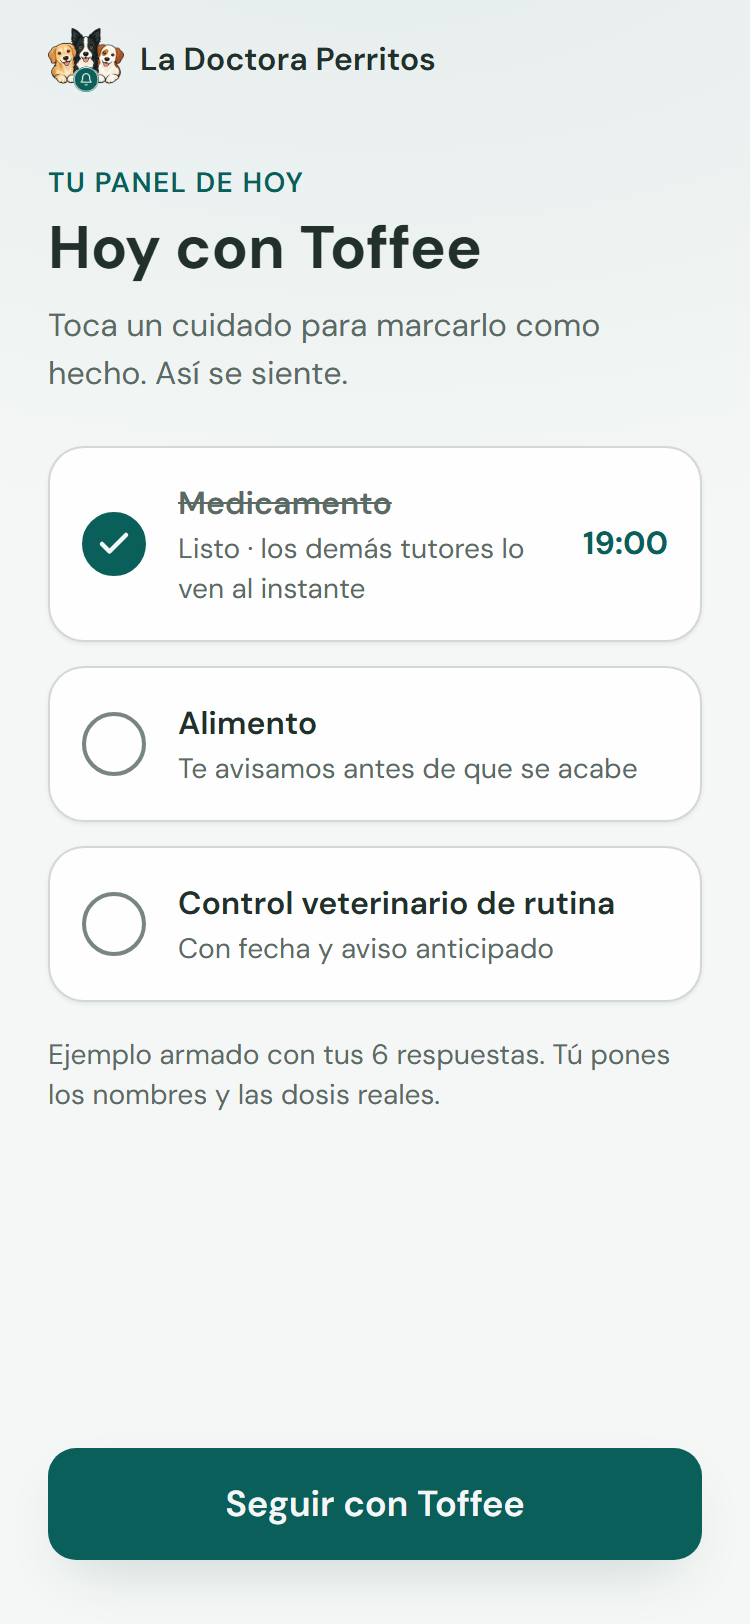
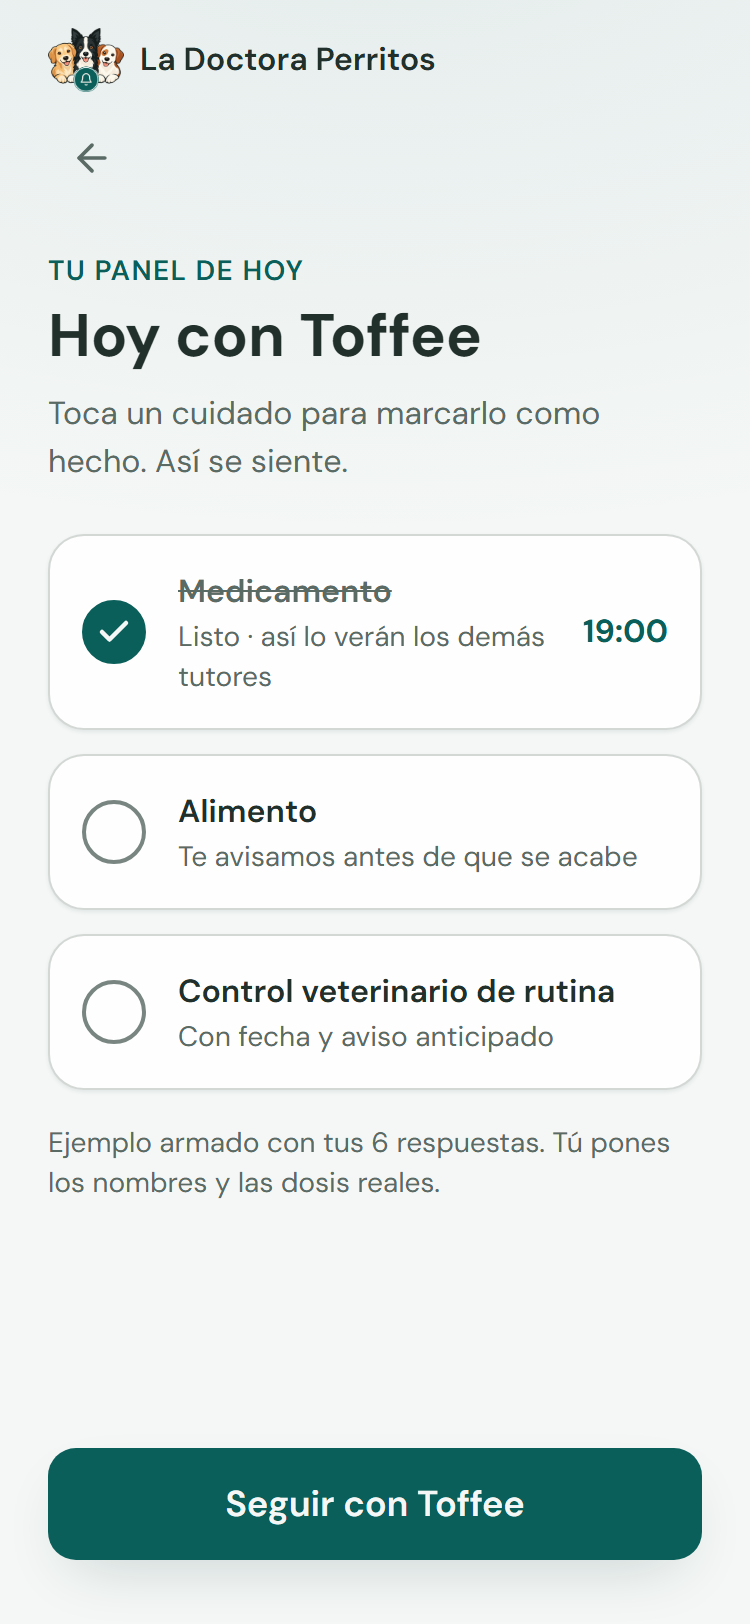
Embudo: correcciones tras revisión ronda 2 (aún bajo umbral)

diff --git a/components/onboarding/Onboarding.tsx b/components/onboarding/Onboarding.tsx
@@ -183,6 +183,7 @@ export default function Onboarding() {
   const raiz = useRef<HTMLDivElement>(null);
   useEffect(() => {
     // Al cambiar de pantalla el foco pasa al título (lectores de pantalla y teclado).
+    if (fase === 'preguntas' && paso === 0) return;
     raiz.current?.querySelector<HTMLElement>('h1')?.focus();
   }, [paso, fase]);
 
@@ -203,7 +204,10 @@ export default function Onboarding() {
     else setFase('reconocimiento');
   };
   const atras = () => {
-    if (fase !== 'preguntas') return setFase('preguntas');
+    if (fase !== 'preguntas') {
+      setPaso(PASOS.length - 1);
+      return setFase('preguntas');
+    }
     if (paso > 0) setPaso(paso - 1);
     else router.push('/');
   };
@@ -219,7 +223,18 @@ export default function Onboarding() {
       <div className="-mt-2 mb-1">
         <Marca />
       </div>
-      {fase === 'preguntas' && <Cabecera paso={paso} onAtras={atras} />}
+      {fase === 'preguntas' ? (
+        <Cabecera paso={paso} onAtras={atras} />
+      ) : (
+        <button
+          type="button"
+          onClick={atras}
+          aria-label="Volver a las preguntas"
+          className="inline-flex size-11 items-center justify-center rounded-full text-[var(--text-secondary)] [touch-action:manipulation]"
+        >
+          <ArrowLeft size={22} aria-hidden="true" />
+        </button>
+      )}
 
       {fase === 'preguntas' && (
         <motion.main key={actual} {...entrada} className="flex flex-1 flex-col pt-8">
@@ -239,7 +254,7 @@ export default function Onboarding() {
                 placeholder="Por ejemplo, Toffee"
                 onChange={(e) => actualizar({ nombre: e.target.value })}
                 onKeyDown={(e) => e.key === 'Enter' && valido.nombre && siguiente()}
-                className="mt-6 h-14 w-full rounded-[var(--radius-card)] border-2 border-[color-mix(in_oklab,var(--text-tertiary)_70%,transparent)] bg-[var(--surface)] px-4 text-xl font-semibold outline-none focus:border-[var(--accent)]"
+                className="mt-6 h-14 w-full rounded-[var(--radius-card)] border-2 border-[color-mix(in_oklab,var(--text-tertiary)_70%,transparent)] bg-[var(--surface)] px-4 text-xl font-semibold outline-none placeholder:text-[var(--text-secondary)] focus:border-[var(--accent)]"
               />
             </>
           )}
@@ -351,6 +366,7 @@ function Reconocimiento({
 }
 
 function Armando({ nombre, r, onListo }: { nombre: string; r: Respuestas; onListo: () => void }) {
+  const reduce = useReducedMotion();
   const hora = r.momento ? HORA_POR_MOMENTO[r.momento] : '08:00';
   const lineas = [
     `Ordenando lo que necesita ${nombre}…`,
@@ -359,14 +375,14 @@ function Armando({ nombre, r, onListo }: { nombre: string; r: Respuestas; onList
   ];
   const [visibles, setVisibles] = useState(1);
   useEffect(() => {
-    const t1 = setTimeout(() => setVisibles(2), 900);
-    const t2 = setTimeout(() => setVisibles(3), 1800);
-    const t3 = setTimeout(onListo, 2700);
+    const t1 = setTimeout(() => setVisibles(2), 1300);
+    const t2 = setTimeout(() => setVisibles(3), 2600);
+    const t3 = setTimeout(onListo, 4000);
     return () => [t1, t2, t3].forEach(clearTimeout);
   }, [onListo]);
   return (
     <main className="flex flex-1 flex-col items-center justify-center gap-8 text-center" aria-live="polite">
-      <span className="inline-flex size-16 animate-pulse items-center justify-center rounded-full bg-[var(--chip-bg)]">
+      <span className={`inline-flex size-16 items-center justify-center rounded-full bg-[var(--chip-bg)] ${reduce ? '' : 'animate-pulse'}`}>
         <PawPrint size={32} color="var(--accent)" aria-hidden="true" />
       </span>
       <h1 tabIndex={-1} className="outline-none text-2xl font-bold">Armando el Panel de Hoy de {nombre}</h1>
@@ -420,7 +436,7 @@ function Resultado({ nombre, r, entrada }: { nombre: string; r: Respuestas; entr
                   <span className={`block text-base font-semibold ${hecho ? 'text-[var(--text-secondary)] line-through' : ''}`}>
                     {it.titulo}
                   </span>
-                  <span className="block text-sm text-[var(--text-secondary)]">{hecho ? (comparte ? 'Listo · los demás tutores lo ven al instante' : 'Listo · queda registrado con la hora') : it.detalle}</span>
+                  <span className="block text-sm text-[var(--text-secondary)]">{hecho ? (comparte ? 'Listo · así lo verán los demás tutores' : 'Listo · así queda registrado con la hora') : it.detalle}</span>
                 </span>
                 {it.hora && <span className="text-base font-bold tabular-nums text-[var(--accent)]">{it.hora}</span>}
               </button>

diff --git a/components/onboarding/Paywall.tsx b/components/onboarding/Paywall.tsx
@@ -137,6 +137,11 @@ export default function Paywall() {
             <span className="text-4xl font-bold tabular-nums">{importe}</span>
             <span className="text-base text-[var(--text-secondary)]">{periodo === 'anio' ? 'al año' : 'al mes'}</span>
           </p>
+          {periodo === 'anio' && (
+            <p className="mt-1 text-base font-semibold">
+              Equivale a {P.anualMes} al mes <span className="font-normal text-[var(--text-secondary)]">(mensual: {P.mensual})</span>
+            </p>
+          )}
           <ul className="mt-4 flex flex-col gap-2">
             {featuresPlan(P.perros).map((f) => (
               <li key={f} className="flex items-start gap-3 text-base">
@@ -185,6 +190,15 @@ export default function Paywall() {
         </div>
         <p className="text-center text-sm text-[var(--text-secondary)]">El pago lo procesa Hotmart. Cancela cuando quieras.</p>
 
+        {!checkout && (
+          <p role="status" className="mt-4 rounded-[var(--radius-button)] bg-[var(--surface-2)] p-3 text-center text-sm text-[var(--text-secondary)]">
+            El pago se está conectando. Escríbenos a{' '}
+            <a href={`mailto:${CONDICIONES.contacto}`} className="font-semibold text-[var(--accent)] underline underline-offset-4">
+              {CONDICIONES.contacto}
+            </a>
+            .
+          </p>
+        )}
         {/* Espacio para que la barra fija no tape el final */}
         <div className="h-4" />
       </main>
@@ -196,23 +210,19 @@ export default function Paywall() {
             Garantía del Primer Aviso · {CONDICIONES.garantia.dias} días sobre tu primer pago
           </p>
         )}
+        <ResumenCobro
+          compacto
+          periodo={periodo === 'anio' ? 'anio' : 'mes'}
+          importe={importe}
+        />
         {checkout ? (
           <a href={checkout} className={boton}>
             {etiquetaBoton}
           </a>
         ) : (
-          <>
-            <button type="button" disabled className={boton}>
-              {etiquetaBoton}
-            </button>
-            <p role="status" className="text-center text-sm text-[var(--text-secondary)]">
-              El pago se está conectando. Escríbenos a{' '}
-              <a href={`mailto:${CONDICIONES.contacto}`} className="font-semibold text-[var(--accent)] underline underline-offset-4">
-                {CONDICIONES.contacto}
-              </a>
-              .
-            </p>
-          </>
+          <button type="button" disabled className={boton}>
+            {etiquetaBoton}
+          </button>
         )}
       </div>
     </div>

diff --git a/components/landing/ResumenCobro.tsx b/components/landing/ResumenCobro.tsx
@@ -17,10 +17,13 @@ export function ResumenCobro({
   periodo,
   importe,
   equivalente,
+  compacto = false,
 }: {
   periodo: Periodo;
   importe: string;
   equivalente?: string;
+  /** Una sola línea (para la barra del botón): qué pagas hoy y cuándo es el primer cobro. */
+  compacto?: boolean;
 }) {
   // Minuto actual en el navegador; en el servidor es null (así no hay desajuste de hidratación).
   const minuto = useSyncExternalStore(suscribirse, minutoActual, () => null);
@@ -28,6 +31,7 @@ export function ResumenCobro({
 
   if (!inicio) {
     // Antes de hidratar: sin fecha, pero con el importe y la frecuencia ya correctos.
+    if (compacto) return <p className="text-center text-sm text-[var(--text-secondary)]">{hayPrueba() ? 'Hoy pagas: US$0' : `Hoy pagas: ${importe}`}</p>;
     return (
       <div className="rounded-[var(--radius-button)] bg-[var(--surface-2)] p-4 text-sm text-[var(--text-secondary)]">
         <p className="text-base font-semibold text-[var(--text-primary)]">
@@ -42,6 +46,15 @@ export function ResumenCobro({
   }
 
   const r = resumenCobro({ inicio, periodo, importe, equivalente });
+  if (compacto) {
+    const hoy = r.lineas[0];
+    const siguiente = r.lineas[1];
+    return (
+      <p className="text-center text-sm text-[var(--text-secondary)]">
+        <strong className="font-semibold text-[var(--text-primary)]">{hoy.etiqueta}: {hoy.valor}</strong> · {siguiente.etiqueta}: {siguiente.valor}
+      </p>
+    );
+  }
   return (
     <div className="rounded-[var(--radius-button)] bg-[var(--surface-2)] p-4 text-sm text-[var(--text-secondary)]">
       <dl className="flex flex-col gap-1">

diff --git a/components/onboarding/Login.tsx b/components/onboarding/Login.tsx
@@ -79,14 +79,14 @@ export default function Login() {
             )}
             {estado.tipo === 'sistema' && (
               <p className="rounded-[var(--radius-button)] bg-[var(--surface-2)] p-3 text-base">
-                {estado.texto} Si ya pagaste, escríbenos a{' '}
+                {estado.texto} Para cualquier duda escríbenos a{' '}
                 <a href={`mailto:${CONDICIONES.contacto}`} className="font-semibold text-[var(--accent)] underline underline-offset-4">
                   {CONDICIONES.contacto}
                 </a>
                 .
               </p>
             )}
-            {estado.tipo === 'enviado' && <p className="text-base text-[var(--text-secondary)]">Listo. Revisa tu correo y toca el enlace.</p>}
+            {estado.tipo === 'enviado' && <p className="text-base text-[var(--text-secondary)]">Listo. Revisa tu correo y toca el enlace. Si no lo ves, mira en spam.</p>}
           </div>
         </form>
 

diff --git a/docs/revisiones/paywall-veredicto.md b/docs/revisiones/paywall-veredicto.md
@@ -1,0 +1,72 @@
+# VEREDICTO revisor-visual — paywall
+Fecha: 2026-09-24 12:00
+Screenshot: docs/revisiones/paywall-375.png (y paywall-completo.png)
+Usabilidad: 27/40
+Craft: 11/20
+Copy (si vende): 14/20
+Fidelidad (si hubo referencia): N-A
+Veredicto: NO LISTA
+
+Detalle usabilidad (0-4): h1:3 h2:3 h3:3 h4:3 h5:2 h6:3 h7:2 h8:2 h9:3 h10:3
+Detalle craft: jerarquía:3 profundidad:2 identidad:2 movimiento:1 encaje:3
+Detalle copy: idea:3 especificidad:3 emoción:2 oferta:3 acción:3
+Nota de método: el botón desactivado y el aviso son intencionales (faltan enlaces de Hotmart). Puntúo el estado real renderizado, sin castigar más la ausencia de enlace; aun con enlace activo los defectos de abajo bloquean. En el «completo» la barra fija aparece a mitad de página: es artefacto de captura, no se puntúa.
+
+## Gate de carga cognitiva
+Pasa con reservas: 1 acción primaria, ≤4 ítems por lista. Reservas: dos listas con el mismo ícono de check (4 de «lo armado» + 4 de features) que dicen casi lo mismo; tres enlaces secundarios (plan, «Ahora no», «Ya tengo cuenta») + toggle + CTA. 1 falla leve; el «qué sigue» es claro.
+
+## Contraste WCAG (hex reales)
+| Par | Ratio | Resultado |
+|---|---|---|
+| acento #0B5F5A / fondo #F4F7F6 (Toffee, «Ya tengo cuenta», enlaces) | 6.96 | OK |
+| acento / superficie (badge «2 meses gratis» sobre blanco) | 7.42 | OK |
+| secundario #5A6A65 / fondo (subtítulo, «Ahora no», garantía) | 5.29 | OK |
+| secundario / surface-2 (texto «Mensual», resumen de cobro) | 4.83 | OK |
+| CTA #F4F7F6 sobre #0B5F5A (con enlace) | 6.96 | OK |
+| CTA disabled #5A6A65 / #E6EEEC | 4.83 | Legible pero pill «muerto» |
+| tamaño mínimo de texto | 14px (text-sm) en garantía, cobro, Hotmart | Aceptable, pero lo más importante de la confianza va en el tamaño más pequeño |
+
+## Anclas de CTA héroe vivo
+- Contraste ≥3:1: sí (con enlace). Tap definido: sí (`active:scale`). Nunca disabled por defecto: FALLA hoy (intencional, sin enlaces). Área ≥48px: sí, 56px ancho completo.
+- Barra fija con el botón desactivado ocupa ≈181 de 812px (22% del viewport) y tapa la tarjeta del plan a media lectura.
+
+## Reglas de 02B / 50
+| Regla | Estado | Nota |
+|---|---|---|
+| Costo hundido visible | ✅ pero débil | «Hecho con tus 6 respuestas» es la última línea, en gris, sin énfasis. |
+| Personalización | ✅ | Nombre en acento, hora del aviso, cuidados contados. |
+| Sin lenguaje controlador | ✅ | |
+| Salida visible | ✅ | Flecha, «Ahora no», «Ya tengo cuenta» (esta lleva a un login que aún no envía nada). |
+| Precio con ancla (anual como $/mes, total visible) | ❌ | Display grande US$29 al año; el «US$2,42 al mes» está enterrado abajo; no se muestra el mensual como referencia. |
+| Fecha exacta de cobro si hay prueba | ⚠ | Existe («1 de octubre de 2026») pero debajo del pliegue y tapada por la barra; el CTA dice «gratis» sin el cobro cerca. |
+| Verdad bajo el CTA (50 C4bis) | ❌ | Bajo el botón solo hay garantía y aviso de pago; falta «Después US$29/año, cancela antes del 1 oct». |
+| Timeline del trial (50 C4) | ❌ | No existe. |
+| Prueba social | ❌ | Ninguna (la creadora es anónima; no se pueden inventar testimonios). Sustituir con prueba real cuando exista. |
+
+## Tabla pantalla → estado → defecto accionable
+| Pantalla | Estado | Defecto accionable |
+|---|---|---|
+| Primer viewport (375) | ❌ | Se ven titular, checklist, toggle y precio, pero el cobro (Hoy US$0 / primer cobro / renovación) queda fuera y bajo la barra; el CTA promete «7 días gratis» sin decir cuánto vale después. Poner línea «Luego US$29 al año desde el 1 oct» dentro de la barra sobre el botón. |
+| Tarjeta de plan | ❌ | Ícono check plano de 18px repetido (no chips 40-48px ni hairline degradé); dos checklists redundantes. Fusionar las listas y usar chips de marca. |
+| Selector Anual/Mensual | ❌ | «2 meses gratis» en teal, no en coral (ficha); Mensual no muestra su precio, sin ancla. Mostrar «US$2,99/mes» tachado o de referencia y el badge en coral. |
+| Resumen de cobro | ✅ | Claro y honesto, fechas reales calculadas (1 oct 2026 = hoy + 7). Falta subirlo. |
+| Pie | ❌ | «Cancela cuando quieras» está sin verificar en Hotmart (ESTADO: «NO verificado»); afirmarlo es riesgo legal. Quitar o confirmar antes de publicar. «El pago lo procesa Hotmart» no dice medios de pago LATAM (tarjeta, cuotas, OXXO) que pide FICHA-AVATAR objeción 6. |
+| Barra fija (estado sin checkout) | ❌ | Botón disabled + aviso ocupa 22% del alto. Aceptado como pendiente, pero mientras tanto colapsar el aviso a una línea. |
+
+## Ficha de arte y movimiento
+Paleta/tipo/radios coinciden con la ficha; el badge de ahorro debía ir en coral y va en teal; el dispositivo ownable (duotone) no aparece. Movimiento: solo `active:scale`; sin transición de precio al cambiar de plan/periodo, sin entrada escalonada, sin aria-live al cambiar el importe.
+
+## Copy (traza a la ficha)
+- Titular «El Panel de Hoy de Toffee está listo» + «no dependa de tu memoria»: traza al deseo 3 y al mecanismo «Panel de Hoy» (idea 3, pero no nombra «quién hizo qué» en el hero).
+- Especificidad 3: precios, 7 días, 15 días, fecha; sin prueba/testimonio → no sube.
+- Emoción 2: no nombra la escena («¿le di la pastilla?», «pensé que se lo habías dado tú»); el paywall solo dice el resultado.
+- Oferta 3: stack corto y claro; la garantía se llama «del Primer Aviso» (nombre propio pero sin explicar), plazo desde «tu primer pago» sin fijar inicio.
+- Acción 3: CTA en 1ª persona con beneficio; compite con 3 enlaces secundarios de peso similar.
+- Sub-checks: Garantía nombrada cerca del CTA: sí. Message-match con anuncio: sin dato (34).
+
+## Top 5 defectos
+1. [Barra fija / bajo el CTA] «7 días gratis» sin el cobro posterior a la vista (US$29 el 1 oct queda bajo el pliegue y tapado) → línea «Luego US$29/año, primer cobro el 1 oct» sobre el botón + timeline breve.
+2. [Selector y precio] sin ancla: no se ve el mensual ni el $/mes anual en grande; badge de ahorro fuera de ficha (coral) → US$2,42/mes en display con «se cobra US$29 al año» en label.
+3. [Tarjeta y checklist] dos listas de checks planos casi duplicadas, sin chips ni hairline, profundidad casi plana, movimiento nulo → una sola lista con chips 40px y una transición de precio.
+4. [Pie] «Cancela cuando quieras» sin verificar y medios de pago LATAM ausentes → verificar en Hotmart o quitar; añadir «tarjeta, cuotas u otros según tu país» solo si es cierto.
+5. [Copy] emoción 2 y costo hundido gris al final → mover «Hecho con tus 6 respuestas» junto al titular y usar la frase del avatar («¿le di ya la pastilla?») en el subtítulo.

diff --git a/docs/revisiones/onboarding-veredicto.md b/docs/revisiones/onboarding-veredicto.md
@@ -1,0 +1,69 @@
+# VEREDICTO revisor-visual — onboarding
+Fecha: 2026-09-24 12:00
+Screenshot: docs/revisiones/onboarding-1-nombre.png (y -2 a -9; 375px, dpr 2)
+Usabilidad: 28/40
+Craft: 12/20
+Copy (si vende): N-A
+Fidelidad (si hubo referencia): N-A
+Veredicto: NO LISTA
+
+Detalle usabilidad (0-4): h1:3 h2:3 h3:3 h4:3 h5:3 h6:3 h7:2 h8:3 h9:2 h10:3
+Detalle craft: jerarquía:3 profundidad:2 identidad:2 movimiento:2 encaje:3
+
+## Gate de carga cognitiva
+Pasa (0-1 fallas): grupos de 3-4 opciones, una acción primaria, un qué-sigue obvio, 1 campo por pantalla. Única duda: el CTA «Continuar» nace disabled (falla el ancla «CTA héroe vivo»).
+
+## Contraste WCAG (hex reales de tokens.css)
+| Par | Ratio | Resultado |
+|---|---|---|
+| texto #22302C / fondo #F4F7F6 | 12.76 | OK |
+| secundario #5A6A65 / fondo | 5.29 | OK |
+| secundario / superficie #FDFEFD | 5.64 | OK |
+| secundario / opción seleccionada (#EAF1F0) | 4.98 | OK |
+| secundario / surface-2 (CTA disabled) | 4.83 | OK (exento por disabled, pero se lee «muerto») |
+| CTA #F4F7F6 sobre #0B5F5A | 6.96 | OK |
+| borde de opción NO seleccionada (mezcla 60% de #566661) sobre fondo / superficie | 2.50 / 2.67 | FALLA 1.4.11 (UI ≥3:1) |
+| segmentos de progreso apagados (#A9C6C3) / fondo | 1.69 (activo vs apagado 4.13) | Estado dependiente casi solo de color claro; el progressbar lleva aria, aceptable pero débil |
+| placeholder «Por ejemplo, Toffee» (color por defecto del navegador, no tokenizado; se ve gris claro) | ~2.8 estimado | FALLA 4.5:1 |
+
+## Accesibilidad
+- Bien: h1 con foco al cambiar de paso, role radiogroup/radio y group/checkbox con aria-checked, progressbar con valuenow, label sr-only del input, aria-live en «Armando», botones ≥44px (opciones 64px, CTA 56px), `active:scale`, `touch-action`.
+- Mal: `autoFocus` del input de nombre choca con el `useEffect` que enfoca el h1 (corre después): en el paso 1 el foco termina en el título, el teclado del móvil no se abre y hay un toque extra. Los radios no tienen navegación por flechas (son botones sueltos). «Saltar por ahora» y «Cambiar una respuesta» son 48px de alto pero sin foco visible propio definido. `animate-pulse` en «Armando» no respeta reduced-motion.
+
+## Reglas de 02B
+| Regla | Estado | Nota |
+|---|---|---|
+| Una pregunta por pantalla | ✅ | 6 pasos, nombre solo. |
+| Progreso visible | ✅ | 6 segmentos + aria; sin animación de avance. |
+| Personalización visible | ✅ | Nombre en títulos, hora del aviso, control por etapa. |
+| Primera victoria | ✅ | Marcar «Medicamento» en el Panel; sin feedback animado del check. |
+| Skip en no críticos | ✅ | Etapa y cuidadores saltables; nombre/cantidad/cuidados/momento no. |
+| Costo hundido | n/a aquí | Se cobra en el paywall. |
+| Sin lenguaje controlador | ✅ | Ningún «debes». |
+| Salida visible | ✅ | Flecha atrás en pasos, logo a inicio; el Resultado no tiene volver. |
+
+## Tabla pantalla → estado → defecto accionable
+| Pantalla | Estado | Defecto accionable |
+|---|---|---|
+| 1 Nombre | ❌ | CTA disabled por defecto (pill muerto) y placeholder gris claro; foco robado por el h1 (autoFocus inútil). Habilitar el botón y validar al toque con hint; quitar el foco al h1 en el paso 1; placeholder con color de token ≥4.5:1. |
+| 2 Cantidad | ✅ | Sin auto-avance (50 pide 250-400ms tras marcar). Opcional. |
+| 3 Etapa | ✅ | Título «¿En qué etapa está Toffee?» con «Senior» puede sentirse duro; ok. |
+| 4 Cuidados | ❌ | Cards de altura desigual («Solo vacunas y controles» 3 líneas, «Comida» 2); ritmo roto y botón queda pegado al borde inferior sin aire. Acortar textos a 1 línea de detalle. |
+| 5 Cuidadores | ✅ | Íconos duplicados (Users para «pareja» y «cuidador»): distinguir. |
+| 6 Momento | ❌ | «¿Cuándo le das lo importante?» es vago (¿qué es lo importante?). Reformular: «¿A qué hora le das su cuidado principal?». |
+| 7 Reconocimiento | ❌ | «Cambiar una respuesta» te devuelve al paso 6, no permite elegir cuál; pantalla sin flecha volver ni progreso; único reconocimiento tras las 6 preguntas (02B/50: cada 3-5). |
+| 8 Armando | ❌ | 2,7 s (50 pide 4-6 s) y los 3 checks aparecen ya «hechos» aunque no haya proceso real; sin stagger animado ni barra; animate-pulse ignora reduced-motion. |
+| 9 Resultado | ❌ | Afirma «los demás tutores lo ven al instante» aunque es una simulación; sin volver; CTA «Seguir con Toffee» vago sobre qué sigue (paywall) ; «Alimento» sin hora rompe el patrón de filas. |
+
+## Ficha de arte
+Paleta, DM Sans y radios 18/14 coinciden. Desvíos: texto secundario en tokens (#5A6A65) difiere de la ficha (#5F706B); el badge de ahorro debería ir en coral #E8896B según la ficha y va en teal (paywall); el dispositivo ownable declarado (duotone de foto de los perros) no aparece en ninguna pantalla del onboarding. Anti-clon: no coincide con «Capítulo» ni «Umbral» (pasa), pero es teal-clínico genérico con logo pequeño como único rasgo propio.
+
+## Movimiento (código)
+Presente: entrada fade+y12 en 250ms con reduced-motion, tap scale .98, transición de color. Ausente: animación del progreso, stagger de opciones, conteo, celebración leve del primer check (la ficha prohíbe confeti, no un micro-feedback), transición entre tabs n/a.
+
+## Top 5 defectos
+1. [Paso 1, botón Continuar y placeholder] CTA disabled de nacimiento + foco robado por h1 + placeholder <4.5:1 → botón activo con validación al tocar, quitar `autoFocus`/dejar el foco en el input, placeholder tokenizado.
+2. [Bordes de opciones, pasos 2-6] borde no seleccionado 2.5:1 <3:1 → subir a ≥3:1 (p. ej. #7A8985 sobre blanco) o sombra/relleno.
+3. [Armando] pantalla de 2,7 s con checks falsos, sin stagger ni reduced-motion en el pulso → 4-6 s, checks que aparecen por línea con animación y `motion-safe:animate-pulse`.
+4. [Reconocimiento y Resultado] sin volver ni elegir qué respuesta cambiar; simulación que promete «los demás tutores lo ven» → botón atrás en ambas, «Cambiar una respuesta» con lista, texto «así se verá» honesto.
+5. [Identidad de todo el flujo] sin dispositivo ownable ni hairline/chips de marca, profundidad casi plana, sin motion de progreso → añadir un rasgo firma (duotone de sus perros/hairline degradé), animar la barra de progreso.

diff --git a/docs/revisiones/login-veredicto.md b/docs/revisiones/login-veredicto.md
@@ -1,0 +1,51 @@
+# VEREDICTO revisor-visual — login
+Fecha: 2026-09-24 12:00
+Screenshot: docs/revisiones/login-375.png
+Usabilidad: 29/40
+Craft: 11/20
+Copy (si vende): N-A
+Fidelidad (si hubo referencia): N-A
+Veredicto: NO LISTA
+
+Detalle usabilidad (0-4): h1:3 h2:3 h3:3 h4:3 h5:3 h6:3 h7:3 h8:3 h9:3 h10:2
+Detalle craft: jerarquía:3 profundidad:2 identidad:2 movimiento:1 encaje:3
+Nota: el estado «acceso pronto» (Supabase pendiente) es intencional y honesto; se puntúa como está, sin penalizar que el envío no exista.
+
+## Gate de carga cognitiva
+Pasa: 1 campo, 1 acción primaria, qué-sigue obvio, sin elementos falsamente interactivos.
+
+## Contraste WCAG (hex reales)
+| Par | Ratio | Resultado |
+|---|---|---|
+| texto #22302C / fondo | 12.76 | OK |
+| secundario #5A6A65 / fondo (subtítulo, «¿Aún no tienes cuenta?») | 5.29 | OK |
+| acento #0B5F5A / fondo (enlaces) | 6.96 | OK |
+| texto #22302C sobre caja surface-2 #E6EEEC | ≈11 | OK |
+| CTA #F4F7F6 / #0B5F5A | 6.96 | OK |
+| borde del input (mezcla 70% de #566661) | ≈2.8 estimado | Justo por debajo de 3:1 (1.4.11) |
+| placeholder «nombre@correo.com» (color por defecto, no visible en la captura porque hay dato de prueba) | ~2.8 estimado | No verificable en imagen; en código no está tokenizado |
+
+## Accesibilidad
+Bien: label visible enlazado, `type=email`, `inputMode`, `autoComplete`, `aria-invalid`, `aria-describedby`, `role=alert` en errores, botón habilitado por defecto con validación al enviar y hint, CTA 56px, «Enviando…» con disabled. Mal: tras el mensaje de sistema no se mueve el foco ni se anuncia la causa junto al campo (solo `alert` bajo el botón); enlaces de texto «Empieza aquí» y el correo de contacto con área táctil solo de la altura de la línea (<44px); la flecha vuelve a `/` aunque se llegó desde el paywall.
+
+## Reglas
+Salida visible ✅ (flecha, logo, «Empieza aquí»). Lenguaje sin control ✅. Errores con solución ✅ («Revisa el correo…», y contacto). Estado honesto ✅ (nunca éxito falso).
+
+## Tabla pantalla → estado → defecto accionable
+| Pantalla | Estado | Defecto accionable |
+|---|---|---|
+| Formulario (correo + CTA) | ✅ | Correcto y consistente con el resto. |
+| Mensaje de estado «acceso pronto» | ❌ | Dice «Si ya pagaste, escríbenos» cuando el pago aún no existe (botón del paywall desactivado): contradice el flujo. Cambiar a «Aún no hay cuentas activas; te avisamos» o ofrecer dejar el correo. |
+| Después del envío (enviado) | ❌ | Solo «Listo. Revisa tu correo y toca el enlace»: sin «revisa spam», sin reenviar ni tiempo de espera (heurística 10). |
+| Vacío central (≈500px sin nada) y pie | ❌ | Pantalla casi muda: el «¿Aún no tienes cuenta? Empieza aquí» pegado abajo lejos de la acción; sin elemento de marca más allá del logo. Subir el pie o añadir un rasgo firma. |
+| Cabecera | ❌ | La flecha (icono en x≈76) queda sangrada frente al margen de 48px del título y de los campos; logo en tercera posición. Alinear la flecha al margen. |
+
+## Ficha de arte y movimiento
+Paleta/tipo/radios de la ficha respetados; dispositivo ownable ausente; profundidad casi plana. Movimiento: solo `active:scale`; el mensaje aparece sin transición, sin `aria-live` fiable (el contenedor cambia de role al vuelo).
+
+## Top 5 defectos
+1. [Mensaje «acceso pronto»] «Si ya pagaste» contradice que aún no se puede pagar → texto coherente con el estado real del producto.
+2. [Estado enviado] sin spam/reenvío/espera → añadir «Revisa spam» y «Reenviar en 30 s».
+3. [Cabecera] flecha sangrada 28px frente al margen del contenido → alinear al margen de 24px o quitar el padding del botón.
+4. [Composición] gran vacío y pie lejano; identidad sin rasgo propio ni movimiento → acercar el pie y agregar entrada escalonada / detalle de marca.
+5. [Input] borde ≈2.8:1 y placeholder sin token → subir contraste del borde y tokenizar el placeholder.
